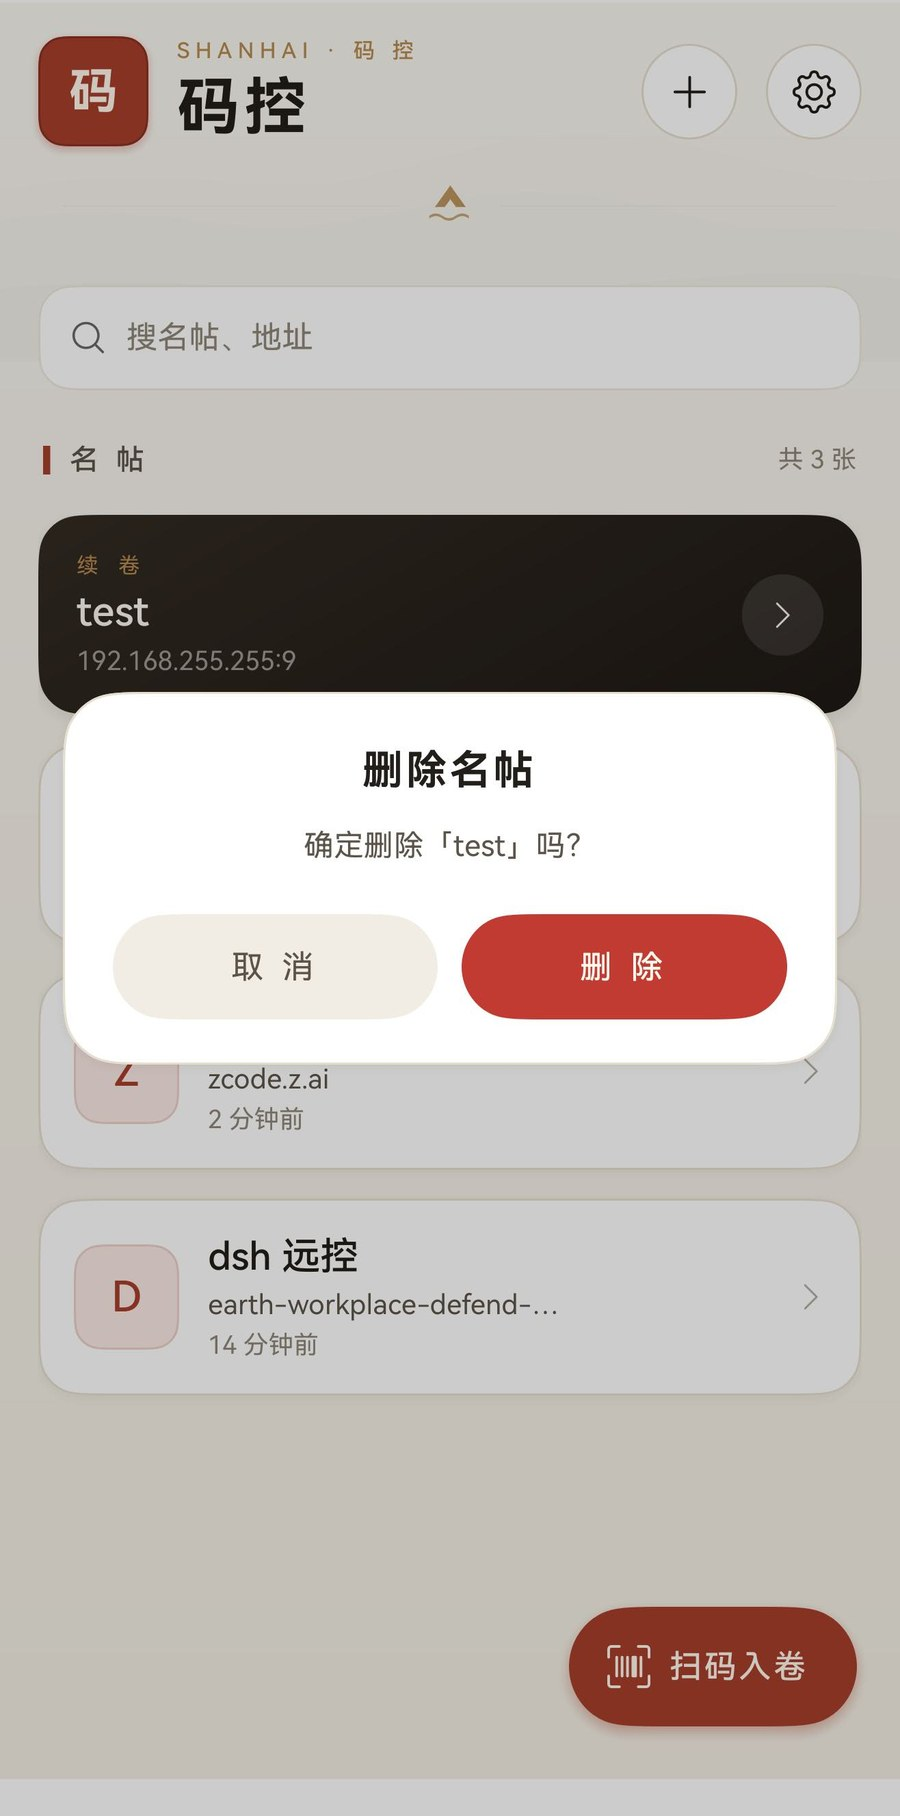
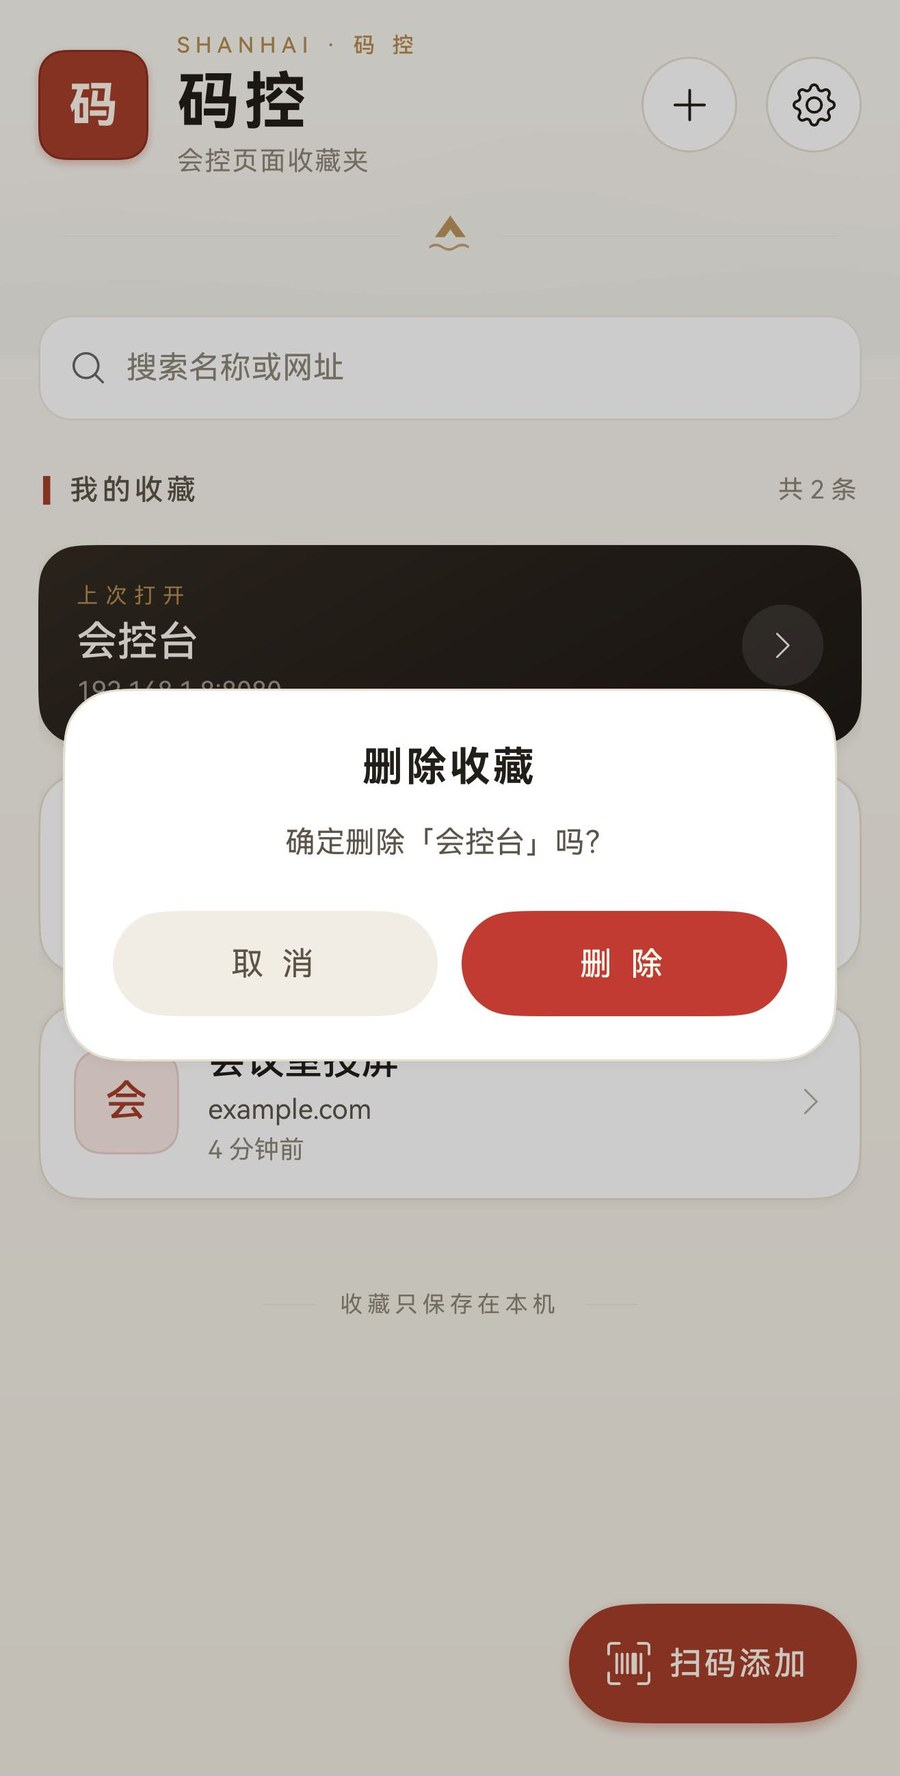
feat: 界面名词改用白话，应用图标换成玄青鎏金「码」
- 名帖 → 收藏，续卷 → 上次打开，扫码入卷 → 扫码添加，新添/修订 → 添加/编辑
- 首页标题下补「会控页面收藏夹」，对齐山海界视觉规范「品牌名 + 用途」的口径
- 修复从网页页返回后列表时间、名称不刷新（ForEach key 带上更新时间）
- 修复网页加载失败时页头标题被地址顶掉，保留收藏名
- 应用图标改为玄青底 + 鎏金细边 + 居中「码」，左右对称，40px 仍可辨
- 同步两份 README 与 8 张效果图

diff --git a/makong-harmony/scripts/gen_icon.py b/makong-harmony/scripts/gen_icon.py
@@ -1,8 +1,10 @@
-"""生成「码控」应用图标（216x216 PNG），宣纸 × 墨色 × 朱砂的山海风格。
+"""生成「码控」应用图标（216x216 PNG）：玄青 × 鎏金的方印。
 
+深青底、鎏金细边、居中一枚鎏金「码」，与《山海界》的玄青 / 鎏金同一套色。
 用法：python scripts/gen_icon.py
 """
 import os
+
 from PIL import Image, ImageDraw, ImageFont
 
 SIZE = 216
@@ -15,16 +17,16 @@ TARGETS = [
     os.path.join(ROOT, 'entry', 'src', 'main', 'resources', 'base', 'media', 'app_icon.png'),
 ]
 
-PAPER_TOP = (250, 247, 241)
-PAPER_BOTTOM = (243, 237, 226)
-INK = (38, 33, 27)
-CINNABAR = (168, 62, 44)
-CINNABAR_DARK = (140, 48, 33)
+# 玄青：底与收口
+XUAN_TOP = (23, 59, 58)
+XUAN_BOTTOM = (13, 34, 33)
+# 鎏金：印文与细边
+GOLD_LIGHT = (227, 196, 106)
 
 FONT_CANDIDATES = [
-    r'C:\Windows\Fonts\msyhbd.ttc',
-    r'C:\Windows\Fonts\msyh.ttc',
+    r'C:\Windows\Fonts\NotoSerifSC-VF.ttf',
     r'C:\Windows\Fonts\simhei.ttf',
+    r'C:\Windows\Fonts\msyhbd.ttc',
 ]
 
 
@@ -33,60 +35,54 @@ def px(value):
 
 
 def load_font(size):
+    """宋体优先（有笔锋），按 Black 字重取；找不到再退黑体。"""
     for path in FONT_CANDIDATES:
-        if os.path.exists(path):
-            try:
-                return ImageFont.truetype(path, px(size))
-            except OSError:
-                continue
+        if not os.path.exists(path):
+            continue
+        try:
+            font = ImageFont.truetype(path, px(size))
+        except OSError:
+            continue
+        try:
+            font.set_variation_by_name('Black')
+        except (AttributeError, OSError, ValueError):
+            pass
+        return font
     return ImageFont.load_default()
 
 
+def draw_glyph(draw, text, font, fill):
+    """按字形墨迹居中，避免不同字体基线带来的偏移。"""
+    box = font.getbbox(text)
+    x = W / 2 - (box[0] + box[2]) / 2
+    y = W / 2 - (box[1] + box[3]) / 2
+    draw.text((x, y), text, font=font, fill=fill)
+
+
 def build():
-    # 宣纸底：极轻的上下渐变
-    grad = Image.new('RGB', (1, W))
+    # 玄青底：自上而下极轻的收深，避免大片纯色发平
+    strip = Image.new('RGB', (1, W))
     for y in range(W):
         t = y / (W - 1)
-        grad.putpixel((0, y), (
-            int(PAPER_TOP[0] + (PAPER_BOTTOM[0] - PAPER_TOP[0]) * t),
-            int(PAPER_TOP[1] + (PAPER_BOTTOM[1] - PAPER_TOP[1]) * t),
-            int(PAPER_TOP[2] + (PAPER_BOTTOM[2] - PAPER_TOP[2]) * t),
+        strip.putpixel((0, y), (
+            int(XUAN_TOP[0] + (XUAN_BOTTOM[0] - XUAN_TOP[0]) * t),
+            int(XUAN_TOP[1] + (XUAN_BOTTOM[1] - XUAN_TOP[1]) * t),
+            int(XUAN_TOP[2] + (XUAN_BOTTOM[2] - XUAN_TOP[2]) * t),
         ))
-    icon = grad.resize((W, W)).convert('RGBA')
+    icon = strip.resize((W, W)).convert('RGBA')
 
     layer = Image.new('RGBA', (W, W), (0, 0, 0, 0))
     d = ImageDraw.Draw(layer)
 
-    # 山脊：三层极淡墨色，从底部起势
-    ridges = [
-        (0.62, 0.18, [(0, 150), (34, 116), (62, 132), (96, 96), (130, 126),
-                      (168, 104), (206, 130), (216, 120)]),
-        (0.70, 0.10, [(0, 168), (40, 140), (78, 156), (120, 128), (160, 150),
-                      (200, 132), (216, 144)]),
-        (0.78, 0.06, [(0, 186), (52, 164), (104, 178), (150, 158), (196, 172), (216, 166)]),
-    ]
-    for start, alpha, points in ridges:
-        poly = [(px(x), px(y)) for x, y in points]
-        poly.append((W, W))
-        poly.append((0, W))
-        d.polygon(poly, fill=INK + (int(255 * alpha),))
-
-    # 朱砂方印：居中略上，圆角方章
-    seal = 108
-    left = (SIZE - seal) / 2
-    top = 42
+    # 鎏金发丝边：不抢字，只在暗底上勾出印面
+    inset = 0.075 * SIZE
     d.rounded_rectangle(
-        [px(left), px(top), px(left + seal), px(top + seal)],
-        radius=px(26), fill=CINNABAR + (255,))
-    # 印章外缘加一道深朱砂细边，像石印的边款
-    d.rounded_rectangle(
-        [px(left), px(top), px(left + seal), px(top + seal)],
-        radius=px(26), outline=CINNABAR_DARK + (255,), width=px(1.4))
+        [px(inset), px(inset), px(SIZE - inset), px(SIZE - inset)],
+        radius=px(0.155 * SIZE),
+        outline=GOLD_LIGHT + (120,), width=px(0.005 * SIZE))
 
-    # 白文「码」
-    font = load_font(62)
-    d.text((px(SIZE / 2), px(top + seal / 2 + 1)), '码',
-           font=font, fill=(255, 248, 239, 255), anchor='mm')
+    # 鎏金「码」
+    draw_glyph(d, '码', load_font(0.52 * SIZE), GOLD_LIGHT + (255,))
 
     icon = Image.alpha_composite(icon, layer)
     return icon.resize((SIZE, SIZE), Image.LANCZOS)

diff --git a/makong-harmony/scripts/prep_readme_shots.py b/makong-harmony/scripts/prep_readme_shots.py
@@ -8,19 +8,19 @@ DST = ROOT / "docs" / "screenshots"
 DST.mkdir(parents=True, exist_ok=True)
 
 SHOTS = [
-    ("v5-list.jpeg", "01-list.jpg"),
-    ("v3-empty2.jpeg", "02-empty.jpg"),
-    ("v4-edit.jpeg", "03-edit.jpg"),
-    ("v2-web.jpeg", "04-webview.jpg"),
-    ("v5-settings.jpeg", "05-settings.jpg"),
-    ("v3-dialog.jpeg", "06-dialog.jpg"),
-    ("v2-error.jpeg", "07-error.jpg"),
-    ("v4-menu.jpeg", "08-menu.jpg"),
+    ("list.jpeg", "01-list.jpg"),
+    ("empty.jpeg", "02-empty.jpg"),
+    ("edit.jpeg", "03-edit.jpg"),
+    ("web.jpeg", "04-webview.jpg"),
+    ("settings.jpeg", "05-settings.jpg"),
+    ("dialog.jpeg", "06-dialog.jpg"),
+    ("error.jpeg", "07-error.jpg"),
+    ("menu.jpeg", "08-menu.jpg"),
 ]
 
-# 去掉顶部状态栏与底部手势条，只保留应用画面
-CROP_TOP = 132
-CROP_BOTTOM = 2788
+# 去掉系统状态栏与底部手势条，只保留应用画面（1316×2832 → 1316×2597）
+CROP_TOP = 137
+CROP_BOTTOM = 2734
 TARGET_WIDTH = 900
 
 for src_name, dst_name in SHOTS:

diff --git a/makong-harmony/README.md b/makong-harmony/README.md
@@ -1,6 +1,6 @@
 # 码控 · makong-harmony
 
-鸿蒙版「会控页面收藏夹」：扫一扫页面上的二维码，把会控地址存成本机会话，点开直接用内嵌 WebView 打开，不需要每次手输网址。
+鸿蒙版「会控页面收藏夹」：扫一扫页面上的二维码，把会控地址存成本地收藏，点开直接用内嵌 WebView 打开，不需要每次手输网址。
 
 - 技术栈：HarmonyOS Stage 模型 + ArkTS + ArkUI，无后端、无三方库。
 - 最低兼容版本：HarmonyOS 5.0.0(12)（`compatibleSdkVersion` / `targetSdkVersion` 均为 `5.0.0(12)`，可用 API 26 SDK 编译）。
@@ -14,24 +14,24 @@
 | --- | --- |
 | 底色 | 宣纸渐变 `#F9F6F0 → #F4EFE4`，页头压一层极淡墨色山脊 |
 | 品牌 | 朱砂圆角方印「码」+ 鎏金小字 `SHANHAI · 码控`，山纹徽记作分隔 |
-| 主色 | 朱砂 `#A83E2C` 只给主操作（扫码入卷、保存名帖、续卷卡），其余保持克制 |
-| 名帖卡 | 白纸卡 + 1px 发丝边 + 大圆角 + 姓名印（首字），名称 / 域名 / 时间三阶墨色 |
-| 名帖列表 | 朱砂竖线小标题「名 帖」，底部一行「山海有信 · 名帖在此」收尾 |
-| 空态 | 鎏金群山 + 朱砂日轮插画，配「尚未收卷」与两句引导 |
-| 续卷卡 | 墨色渐变卡 + 鎏金小字「续 卷」，与白纸卡形成层次 |
+| 主色 | 朱砂 `#A83E2C` 只给主操作（扫码添加、保存、上次打开卡），其余保持克制 |
+| 收藏卡 | 白纸卡 + 1px 发丝边 + 大圆角 + 首字印，名称 / 域名 / 时间三阶墨色 |
+| 收藏列表 | 朱砂竖线小标题「我的收藏」，底部一行「收藏只保存在本机」收尾 |
+| 空态 | 鎏金群山 + 朱砂日轮插画，配「还没有收藏」与两句引导 |
+| 上次打开卡 | 墨色渐变卡 + 鎏金小字「上次打开」，与白纸卡形成层次 |
 | 确认框 | 自绘纸面 `ConfirmDialog`（圆角 24、纸色底、朱砂主按钮），不用系统 AlertDialog |
-| 图标 | 应用图标为宣纸底 + 朱砂方印「码」；界面图标统一实心 SVG，`fillColor` 运行时染色，自动适配深色模式 |
+| 图标 | 应用图标为玄青底 + 鎏金细边 + 居中「码」；界面图标统一实心 SVG，`fillColor` 运行时染色，自动适配深色模式 |
 
-三页结构不变：名帖列表（Index）→ 新添 / 修订（EditPage）→ 内嵌网页（WebViewPage）。
+三页结构不变：收藏列表（Index）→ 添加 / 编辑收藏（EditPage）→ 内嵌网页（WebViewPage）。
 
 ## 功能
 
 | 能力 | 说明 |
 | --- | --- |
 | 扫码添加 | 调起 Scan Kit 默认扫码界面，识别二维码后自动填网址；系统界面已预授权相机，**无需申请相机权限**。支持从相册选图识别 |
-| 手动添加 / 编辑 | 名称 + 网址两个输入框；编辑态里可以再次扫码覆盖网址，也可以删除会话 |
-| 会话列表 | 按最近打开时间倒序；卡片显示名称、域名、最近打开时间、HTTP 标记；支持搜索（名称 / 地址）；长按卡片可编辑、在浏览器打开、删除 |
-| 继续上次 | 首页顶部「继续上次」横幅一键回到上次的页面；设置里可开启「启动时进入上次会话」 |
+| 手动添加 / 编辑 | 名称 + 网址两个输入框；编辑态里可以再次扫码覆盖网址，也可以删除这条收藏 |
+| 收藏列表 | 按最近打开时间倒序；卡片显示名称、域名、最近打开时间、HTTP 标记；支持搜索（名称 / 地址）；长按卡片可编辑、在浏览器打开、删除 |
+| 继续上次 | 首页顶部「上次打开」横幅一键回到上次的页面；设置里可开启「启动时打开上次的页面」 |
 | 内嵌打开 | WebView 打开任意 http/https 地址，开启 JavaScript、DOM Storage、数据库、混合内容，保证会控页的登录态可用 |
 | 网页导航 | 系统返回键优先回退网页历史，退无可退才回列表；顶栏菜单支持刷新、复制链接、在浏览器打开 |
 | 加载失败兜底 | 出错时给出错误码与提示（`-10` 会单独说明可能是明文 http 被系统拦截），可重试或改用系统浏览器打开 |
@@ -55,11 +55,11 @@ makong-harmony/
 │   │   ├── components/
 │   │   │   ├── Brand.ets             # 方印、姓名印、圆形图标按钮、发丝分隔
 │   │   │   └── ConfirmDialog.ets     # 纸面确认框
-│   │   ├── model/SessionItem.ets     # 会话数据模型
+│   │   ├── model/SessionItem.ets     # 收藏数据模型
 │   │   ├── store/SessionStore.ets    # Preferences 持久化
 │   │   ├── entryability/EntryAbility.ets
 │   │   └── pages/
-│   │       ├── Index.ets             # 名帖列表
+│   │       ├── Index.ets             # 收藏列表
 │   │       ├── EditPage.ets          # 新增 / 编辑
 │   │       └── WebViewPage.ets       # 内嵌网页
 │   └── resources/
@@ -74,7 +74,7 @@ makong-harmony/
 
 ## 数据与存储
 
-会话数据存在 Preferences（名称 `makong_sessions`）里，只有一个 JSON 数组：
+收藏数据存在 Preferences（名称 `makong_sessions`）里，只有一个 JSON 数组：
 
 ```
 SessionItem {
@@ -87,7 +87,7 @@ SessionItem {
 }
 ```
 
-另外存 `last_session_id`（上次会话）与 `auto_resume`（是否启动时自动进入）。数据只在本机，卸载应用即丢失。
+另外存 `last_session_id`（上次打开的收藏）与 `auto_resume`（是否启动时自动进入）。数据只在本机，卸载应用即丢失。
 
 ## 运行
 
@@ -178,38 +178,39 @@ http://192.168.1.8:8080/control
 ## 验证情况
 
 - 已在 DevEco Studio 26.0.0.851（API 26 SDK）下用 hvigor 编译通过：`assembleHap` 成功，签名产物 `entry/build/default/outputs/default/entry-default-signed.hap`。
-- 已通过 `hdc install` 安装到真机（4WM0225212003721）并启动，列表、空态、设置面板、新添 / 修订名帖、内嵌网页（含登录态保持）、错误兜底、长按菜单、纸面确认框均已实测，截图见上方「效果图」。
+- 已通过 `hdc install` 安装到真机（4WM0225212003721）并启动，列表、空态、设置面板、添加 / 编辑收藏、内嵌网页（含登录态保持）、错误兜底、长按菜单、纸面确认框均已实测，截图见上方「效果图」。
+- 名词改版后在 HarmonyOS 7.0 模拟器（1316×2832）上整包重装复核：列表、空态、添加 / 编辑、设置、确认框、错误页、长按菜单均与截图一致。
 - 仍待真实会控页确认：内网 http 地址是否被 `-10` 拦截、会控页 WebRTC 的实际表现（见上面的「明文 HTTP」「WebRTC」两节）。
 
 ## 效果图
 
-真机实拍（HarmonyOS 5.0.0 手机，1316×2832，已裁掉系统状态栏）：
+界面截图（HarmonyOS，1316×2832，已裁掉系统状态栏与底部手势条）：
 
 <table>
   <tr>
     <td align="center" width="50%">
       <img src="docs/screenshots/01-list.jpg" width="260" /><br />
-      <sub>名帖列表：续卷卡 + 名帖卡 + 收尾落款</sub>
+      <sub>收藏列表：上次打开卡 + 收藏卡 + 收尾说明</sub>
     </td>
     <td align="center" width="50%">
       <img src="docs/screenshots/02-empty.jpg" width="260" /><br />
-      <sub>空态：山海插画 + 「尚未收卷」</sub>
+      <sub>空态：山海插画 + 「还没有收藏」</sub>
     </td>
   </tr>
   <tr>
     <td align="center">
       <img src="docs/screenshots/03-edit.jpg" width="260" /><br />
-      <sub>新添 / 修订名帖：白卡表单 + 扫一扫</sub>
+      <sub>添加 / 编辑收藏：白卡表单 + 扫一扫</sub>
     </td>
     <td align="center">
       <img src="docs/screenshots/04-webview.jpg" width="260" /><br />
-      <sub>内嵌网页：纸色页头 + WebView 打开会控页</sub>
+      <sub>内嵌网页：纸色页头 + WebView 打开网址（示例页 example.com）</sub>
     </td>
   </tr>
   <tr>
     <td align="center">
       <img src="docs/screenshots/05-settings.jpg" width="260" /><br />
-      <sub>设置面板：启动自动进入上次名帖</sub>
+      <sub>设置面板：启动时打开上次的页面</sub>
     </td>
     <td align="center">
       <img src="docs/screenshots/06-dialog.jpg" width="260" /><br />
@@ -219,16 +220,16 @@ http://192.168.1.8:8080/control
   <tr>
     <td align="center">
       <img src="docs/screenshots/07-error.jpg" width="260" /><br />
-      <sub>加载失败兜底：错误详情 / 重试 / 浏览器打开</sub>
+      <sub>加载失败兜底：错误码 / 重试 / 浏览器打开</sub>
     </td>
     <td align="center">
       <img src="docs/screenshots/08-menu.jpg" width="260" /><br />
-      <sub>长按名帖：修订 / 浏览器打开 / 删除</sub>
+      <sub>长按收藏：编辑 / 在浏览器打开 / 删除</sub>
     </td>
   </tr>
 </table>
 
-图片源文件在 `docs/screenshots/`（由 `scripts/prep_readme_shots.py` 从真机截图裁剪生成）。
+图片源文件在 `.screenshots/`（已 gitignore），由 `scripts/prep_readme_shots.py` 裁剪生成到 `docs/screenshots/`。
 
 
 ## 图标
@@ -238,6 +239,8 @@ http://192.168.1.8:8080/control
 ```powershell
 python scripts/gen_icon.py
 ```
+
+图标口径：玄青底（`#173B3A → #0D2221`）+ 鎏金发丝边 + 居中一枚鎏金「码」（宋体 Black），四周留 7.5% 安全边，系统圆角裁切不会切到字；图案严格左右对称、主体居中，缩到 40px 仍可辨认。字体优先取本机 `Noto Serif SC`，没有则依次退黑体。
 
 界面里的小图标是 Bootstrap Icons 的实心 SVG（`entry/src/main/resources/base/media/ic_*.svg`），统一 `fill="#000000"`，运行时用 `Image.fillColor($r('app.color.…'))` 染色，自动适配浅色 / 深色模式。
 

diff --git a/README.md b/README.md
@@ -5,7 +5,7 @@
 
 「码控」：山海系列 · 鸿蒙版会控页面收藏夹。
 
-扫一扫会控页面上的二维码，把地址存成本地名帖，点开直接用内嵌 WebView 打开——不用每次手输网址。
+扫一扫会控页面上的二维码，把地址存成本地收藏，点开直接用内嵌 WebView 打开——不用每次手输网址。
 
 ## 仓库内容
 
@@ -15,9 +15,9 @@
 
 ## 功能一览
 
-- **扫码入卷**：Scan Kit 默认扫码界面，扫码结果直接回填网址（系统界面已预授权相机，App 无需申请相机权限）
-- **名帖管理**：新增 / 修订 / 删除 / 搜索，本地 Preferences 持久化，只存在这台机器上
-- **续卷**：一键回到上次访问的页面，可开启「启动时进入上次名帖」
+- **扫码添加**：Scan Kit 默认扫码界面，扫码结果直接回填网址（系统界面已预授权相机，App 无需申请相机权限）
+- **收藏管理**：新增 / 编辑 / 删除 / 搜索，本地 Preferences 持久化，只存在这台机器上
+- **继续上次**：一键回到上次访问的页面，可开启「启动时打开上次的页面」
 - **内嵌打开**：ArkWeb 加载任意 http/https 地址，保留网页登录态
 - **网页导航**：返回键优先回退网页历史；顶栏支持刷新、复制链接、在浏览器打开
 - **加载兜底**：错误页给出错误码与提示，可重试或改用系统浏览器
@@ -25,13 +25,13 @@
 
 ## 界面
 
-山海系列新中式设计：宣纸暖白 × 墨色 × 朱砂、鎏金点缀。三页结构：名帖列表 → 新添 / 修订名帖 → 内嵌网页。
+山海系列新中式设计：宣纸暖白 × 墨色 × 朱砂、鎏金点缀。三页结构：收藏列表 → 添加 / 编辑收藏 → 内嵌网页。
 
 <table>
   <tr>
     <td align="center" width="33%">
       <img src="makong-harmony/docs/screenshots/01-list.jpg" width="230" /><br />
-      <sub>名帖列表</sub>
+      <sub>收藏列表</sub>
     </td>
     <td align="center" width="33%">
       <img src="makong-harmony/docs/screenshots/04-webview.jpg" width="230" /><br />
@@ -39,7 +39,7 @@
     </td>
     <td align="center" width="33%">
       <img src="makong-harmony/docs/screenshots/03-edit.jpg" width="230" /><br />
-      <sub>修订名帖</sub>
+      <sub>编辑收藏</sub>
     </td>
   </tr>
 </table>
